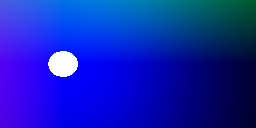
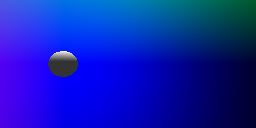
refactored Hit

Changed region(s): [[0.1875, 0.4062, 0.3125, 0.625]]

diff --git a/Source/RayTracing/shapes.py b/Source/RayTracing/shapes.py
@@ -1,5 +1,6 @@
 import glm
 import math
+
 from RayTracing.ray import Ray,Hit
 
 class Shape:
@@ -7,8 +8,9 @@ class Shape:
         pass
         
     def intersect(self, ray : Ray , shape_position : glm.vec3) -> Hit:
-        return Hit()
-        
+        return None
+    
+    
         
 class Sphere(Shape):
     def __init__(self, radius) -> None:
@@ -24,13 +26,15 @@ class Sphere(Shape):
         
         
         if (delta < 0):
-            return Hit()
+            return None # no hit
+        
         else:  
             t1 = ( -b + math.sqrt(delta) ) / ( 2 * a )
             t2 = ( -b - math.sqrt(delta) ) / ( 2 * a )
             
             if (t1 < 0 and t2 < 0):
-                return Hit()
+                return None # no hit
+            
             else:
                 if ((t1 >= 0 and t2 < 0) or (t1 < 0 and t2 >= 0)):
                     distance = max(t1,t2)
@@ -41,7 +45,8 @@ class Sphere(Shape):
                     
                 hit_pos = ray.origin + ray.direction*distance 
                 normal = hit_pos - shape_position
-                return Hit( self, distance, hit_pos, normal, is_backface )
+                return Hit( distance, hit_pos, normal, is_backface )
+  
             
 class Point(Shape):
     def __init__(self) -> None:
@@ -54,13 +59,10 @@ class Point(Shape):
         dot = glm.dot(glm.normalize(ray.direction),glm.normalize(shape_position - ray.origin))
         
         if dot < 0:
-            return Hit()
+            return None # no hit
         else:
             if dot >= min_dot:
                 distance = (shape_position - ray.origin)[0] / ray.direction[0]
-                return Hit(self, distance, shape_position, glm.vec3(1),False)
-        
-        return super().intersect(ray, shape_position)
-        
+                return Hit( distance, shape_position, glm.vec3(1),False)
         
         

diff --git a/Source/RayTracing/scene.py b/Source/RayTracing/scene.py
@@ -1,31 +1,38 @@
 from RayTracing.ray import Ray,Hit
 from RayTracing.instance import Instance
 import sys
+import glm
 
 class Scene:
     def __init__(self, instances : list[Instance]) -> None:
         self.instances = instances
         
-    def compute_intersection(self, ray) -> Hit:
+    def compute_intersection(self, ray) -> tuple[Instance, Hit]:
        
-        hit = Hit()
+        hit_instance = None
+        hit = None
         
         nearest_hit_distance = sys.float_info.max
         
         for instance in self.instances:
            new_hit = instance.intersect(ray)
-           if new_hit.instance is not None:
+           
+           if new_hit is not None:
+                              
                if new_hit.distance < nearest_hit_distance:
-                   hit = new_hit
+                    hit_instance = instance
+                    hit = new_hit
+
         
-        return hit
+        return (hit_instance,hit)
     
     def trace_ray(self,ray):
         
-        hit = self.compute_intersection(ray)
+        (hit_instance, hit) = self.compute_intersection(ray)
         
-        if hit.instance is not None:
-            return (1,1,1)
+        if hit_instance is not None:
+            color_intensity = max(0.2, glm.dot(hit.normal,glm.vec3(0,1,0)) )        
+            return (color_intensity,color_intensity,color_intensity)
         else:
             return self.get_background_color(ray)
         

diff --git a/Source/RayTracing/instance.py b/Source/RayTracing/instance.py
@@ -1,6 +1,8 @@
 import glm
+from RayTracing.material import Material
 from RayTracing.shapes import Shape
 from RayTracing.ray import Ray, Hit
+from RayTracing.light import Light
 
 class Instance:
     
@@ -9,4 +11,25 @@ class Instance:
         self.shape = shape
         
     def intersect(self, ray : Ray) -> Hit:
-        return self.shape.intersect(ray, self.position)
+        
+        hit = self.shape.intersect(ray, self.position)
+        
+        if hit is not None:
+            return hit
+        else:
+            return None
+            
+    
+
+class ObjectInstance(Instance):
+    
+    def __init__(self, position : glm.vec3, shape : Shape, material : Material) -> None:
+        super().__init__(position, shape)
+        self.material = material        
+
+            
+class LightInstance(Instance):
+    
+    def __init__(self, position : glm.vec3, shape : Shape, light : Light) -> None:
+        super().__init__(position, shape)
+        self.light = light

diff --git a/Source/main.py b/Source/main.py
@@ -8,12 +8,13 @@ from RayTracing.render import render
 import glm
 
 def CreateScene():
-    sphere_instance = Instance( glm.vec3(-5,1,-5), Sphere(1) )
-    sphere_instance2 = Instance( glm.vec3(3,0,1.25), Sphere(1))
-    point_instance = Instance( glm.vec3(0,2,-10), Point())
-    scene = Scene([sphere_instance])
-    #scene = Scene([point_instance])
-    #scene = Scene([])
+    
+    instances = []
+    
+    instances.append( Instance( glm.vec3(0,0,10), Sphere(1) ) )
+    #instances.append( Instance( glm.vec3(0,0,10), Point() ) )
+
+    scene = Scene(instances)
     
     return scene
 
@@ -26,7 +27,7 @@ if __name__ == '__main__':
     
     film = Film(WIDTH,HEIGHT)
     
-    camera = Camera(60, 10, WIDTH/HEIGHT, glm.vec3(0,0,0), glm.vec3(0,0,-10), glm.vec3(0,1,0))
+    camera = Camera(60, 10, WIDTH/HEIGHT, glm.vec3(0,0,0), glm.vec3(0,0,10), glm.vec3(0,1,0))
     
     scene = CreateScene()
     

diff --git a/Source/RayTracing/ray.py b/Source/RayTracing/ray.py
@@ -6,8 +6,7 @@ class Ray:
         self.direction = glm.normalize(direction)
         
 class Hit:
-    def __init__(self, instance = None, distance = -1, position = glm.vec3(), normal = glm.vec3(), is_backface = False) -> None:
-        self.instance = instance
+    def __init__(self, distance : float = -1 , position : glm.vec3 = glm.vec3(), normal : glm.vec3 = glm.vec3(1), is_backface : bool = False) -> None:
         self.distance = distance
         self.position = position
         self.normal = glm.normalize(normal)

diff --git a/Source/RayTracing/material.py b/Source/RayTracing/material.py
@@ -1,0 +1,13 @@
+from RayTracing.color import Color
+
+class Material:
+    
+    def _init_():
+        pass
+
+class PhongMaterial(Material):
+    
+    def __init__(self, ambient : Color, diffuse : Color, specular : Color, shininess : float) -> None:
+        self.diffuse = diffuse
+        self.specular = specular
+        self.shininess = shininess

diff --git a/Source/RayTracing/light.py b/Source/RayTracing/light.py
@@ -1,0 +1,13 @@
+import glm
+
+class Light:
+        
+    def __init__(self, power : float) -> None:
+        self.power = power
+        
+
+
+class pointLight(Light):
+    
+    def __init__(self, power : float) -> None:
+        super().__init__(power)

diff --git a/Source/RayTracing/color.py b/Source/RayTracing/color.py
@@ -1,0 +1,6 @@
+class Color:
+    
+    def __init__(self, r, g, b):
+        self.r = r
+        self.g = g
+        self.b = b
